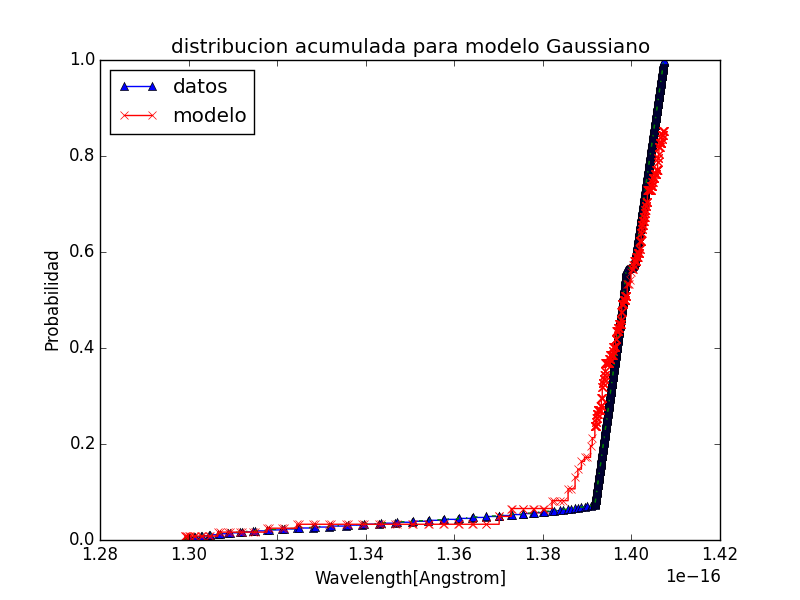
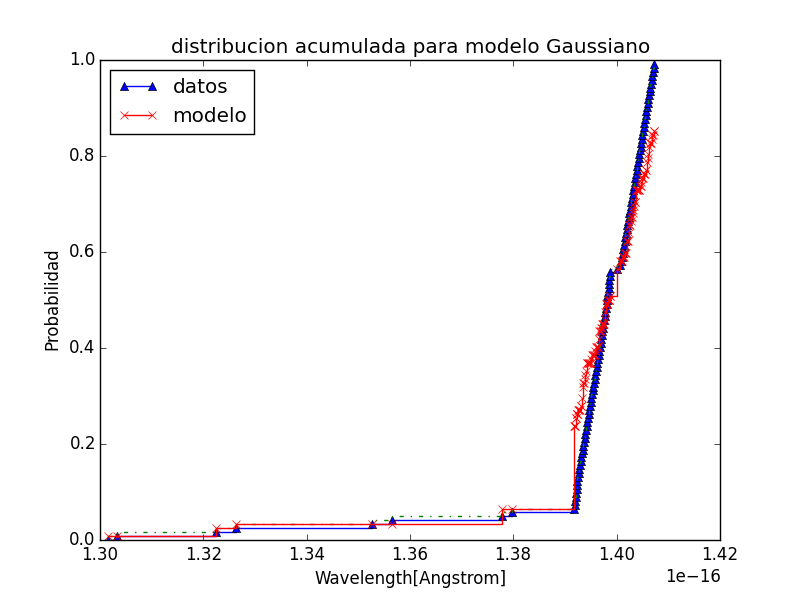
funcion para encontrar chi cuadrado

Changed region(s): [[0.125, 0.09, 0.8438, 0.93], [0.625, 0.9, 0.7188, 0.93], [0.75, 0.9, 0.8125, 0.93]]

diff --git a/tarea_2.py b/tarea_2.py
@@ -12,6 +12,7 @@ import pdb
 ''' Script que aproxima el espectro por un perfil de lorentz y luego por una
 recta y una gaussiana usando Levenberg- Marquardt'''
 
+
 def importar_datos(txt):
     ''' función que retorna arreglos por cada columna del archivo de datos'''
     data = np.loadtxt(txt)
@@ -59,7 +60,7 @@ def modelo_g(x, A, mu, sigma, m, n):
 
 def crear_datos(param_opt, f):
     ''' crea un set de datos x,y según el modelo obtenido por curvefit'''
-    x = np.linspace(6.4600e+03, 6.6596e+03, 150)
+    x = np.linspace(6.4600e+03, 6.6596e+03, 122)
     y = f(x, param_opt[0], param_opt[1], param_opt[2], param_opt[3],
                   param_opt[4])
     return x, y
@@ -74,7 +75,7 @@ def generar_prob_acumulada(x_data, y_data, a, f):
     distribucion acumulada del modelo'''
     xmin = np.min(x_data)
     xmax = np.max(x_data)
-    y_model_sorted = np.sort(f(np.linspace(xmin, xmax, 1000), *a))
+    y_model_sorted = np.sort(f(np.linspace(xmin, xmax, 122), *a))
     y_data_sorted = np.sort(y_data)
     return y_model_sorted, y_data_sorted
 
@@ -94,32 +95,60 @@ def mostrar_prob_acum(f_d, f_m, title):
     plt.savefig("{}".format(title))
 
 
+def chi_cuadrado(data, modelo, param):
+    '''recibe los datos y el modelo a evaluar,
+    devuleve el valor de chi cuadrado'''
+    x_modelo = data[0]
+    y_modelo = modelo(x_modelo, param[0], param[1], param[2], param[3], param[4])
+    chi_2 = (data[1] - y_modelo) ** 2
+    return np.sum(chi_2)
+
+
 # main
 wlength, fnu = importar_datos("espectro.dat")
+
 param_opt_l, pcov = curve_fit(modelo_l, wlength, fnu,
                             p0=[0.1e-16, 6550, 10, 0.04e-16/200, 1])
 param_opt_g, pcov = curve_fit(modelo_g, wlength, fnu,
                             p0=[0.1e-16, 6550, 10, 0.04e-16/200, 1])
 x_modelo_l, y_modelo_l = crear_datos(param_opt_l, modelo_l)
 x_modelo_g, y_modelo_g = crear_datos(param_opt_g, modelo_g)
-print("Parametros optimos perfil de Lorentz: Amplitud= {}, promedio = {}, sigma = {}".format(param_opt_l[0], param_opt_l[1], param_opt_l[2]))
-print("Parametros optimos modelo Gaussiano: Amplitud= {}, promedio = {}, sigma = {}".format(param_opt_g[0], param_opt_g[1], param_opt_g[2]))
-print("Parametros optimos recta: Pendiente = {}, coef de posicion = {}".format(param_opt_l[3],param_opt_l[4]))
+chi_l = chi_cuadrado([wlength, fnu], modelo_l, param_opt_l)
+chi_g = chi_cuadrado([wlength, fnu], modelo_g, param_opt_g)
+print('''Parametros optimos perfil de Lorentz: Amplitud= {},
+      promedio = {}, sigma = {}'''.format(param_opt_l[0],
+                                          param_opt_l[1], param_opt_l[2]))
+print(" ")
+print("Valor chi cuadrado (Lorentz)= ", chi_l)
+print('''Parametros optimos modelo Gaussiano: Amplitud= {},
+      promedio = {}, sigma = {}'''.format(param_opt_g[0],
+                                          param_opt_g[1], param_opt_g[2]))
+print(" ")
+print("Valor chi cuadrado (Gauss) = ", chi_g)
+print(" ")
 
+print('''Parametros optimos recta: Pendiente = {},
+      coef de posicion = {}'''.format(param_opt_l[3],param_opt_l[4]))
+print(" ")
 mostrar_datos(wlength, fnu, [x_modelo_l, y_modelo_l], [x_modelo_g, y_modelo_g],
               "Wavelength[Angstrom]",
               "$F_\\nu [erg s^{-1} Hz^{-1} cm^{-2}]$",
               "modelos Perfil Lorentz y Gauss", [1.28e-16, 1.42e-16])
 
-f_modelo_l_sorted, f_data_sorted = generar_prob_acumulada(wlength, fnu, param_opt_l, modelo_l)
-f_modelo_g_sorted, f_data_sorted = generar_prob_acumulada(wlength, fnu, param_opt_g, modelo_g)
-mostrar_prob_acum(f_modelo_l_sorted, f_data_sorted, "distribucion acumulada para perfil de Lorentz")
-mostrar_prob_acum(f_modelo_g_sorted, f_data_sorted, "distribucion acumulada para modelo Gaussiano" )
+f_modelo_l_sorted, f_data_sorted = generar_prob_acumulada(wlength, fnu,
+                                                          param_opt_l, modelo_l)
+f_modelo_g_sorted, f_data_sorted = generar_prob_acumulada(wlength, fnu,
+                                                          param_opt_g, modelo_g)
+mostrar_prob_acum(f_modelo_l_sorted, f_data_sorted,
+                  "distribucion acumulada para perfil de Lorentz")
+mostrar_prob_acum(f_modelo_g_sorted, f_data_sorted,
+                  "distribucion acumulada para modelo Gaussiano" )
 Dn_scipy_l, conf_l = kstest(f_data_sorted, cdf, args=(f_modelo_l_sorted,))
 Dn_scipy_g, conf_g = kstest(f_data_sorted, cdf, args=(f_modelo_g_sorted,))
 print "Dn_scipy para perfil de lorentz   : ", Dn_scipy_l
 print "Nivel de confianza para perfil de lorentz : ", conf_l
 
+print(" ")
 print "Dn_scipy para modelo gaussiano   : ", Dn_scipy_g
 print "Nivel de confianza para modelo gaussiano : ", conf_g
 
